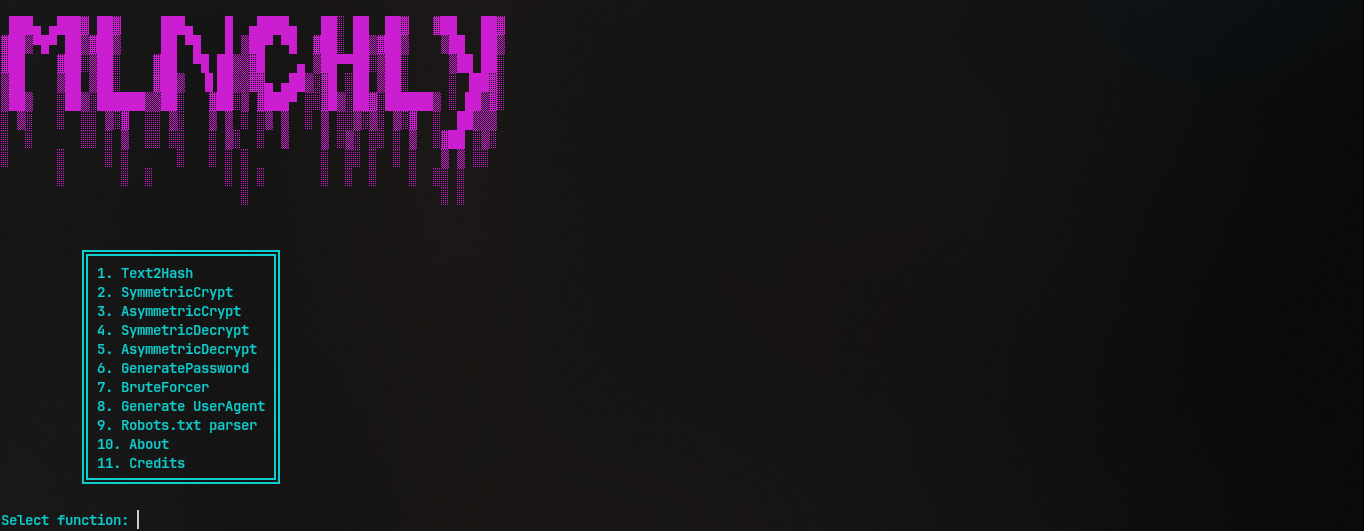
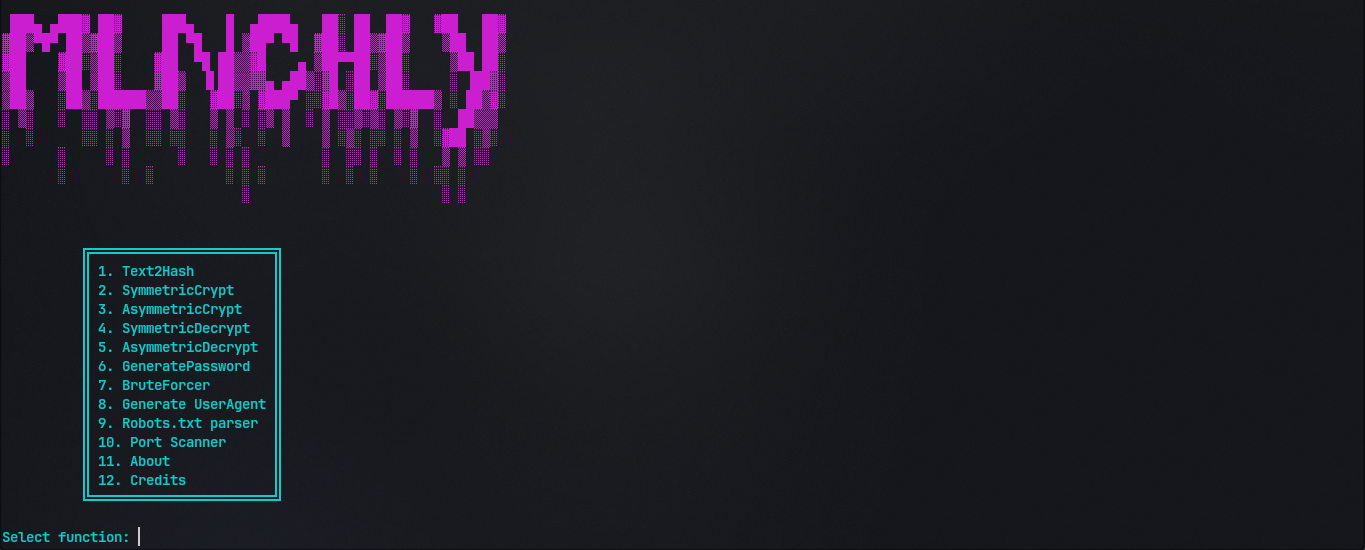
Added Port Scanner, Updated README.md, Updated ScreenShots.

diff --git a/main.py b/main.py
@@ -9,6 +9,7 @@ from modules.generate_pswrd import run_genpswrd
 from modules.bruteforce import run_brtfrce
 from modules.generate_UA import run_genUA
 from modules.robots_parser import run_robots_parser
+from modules.portscanner import run_portscnnr
 
 init(autoreset=True)
 
@@ -25,15 +26,16 @@ def main():
 	  ║ 7. BruteForcer        ║
 	  ║ 8. Generate UserAgent ║
 	  ║ 9. Robots.txt parser  ║
-	  ║ 10. About	          ║
-	  ║ 11. Credits           ║
+	  ║ 10. Port Scanner      ║
+	  ║ 11. About	          ║
+	  ║ 12. Credits           ║
 	  ╚═══════════════════════╝
 		""")
 	while True:
 		try:
 			choice = int(input(Fore.CYAN + Style.BRIGHT + "Select function: "))
-			if choice not in range(1, 10):
-				print(Fore.RED + Style.BRIGHT + "Choose function 1-10!")
+			if choice not in range(1, 13):
+				print(Fore.RED + Style.BRIGHT + "Choose function 1-12!")
 				continue
 			break
 		except ValueError:
@@ -58,11 +60,13 @@ def main():
 	elif choice == 9:
 		run_robots_parser()
 	elif choice == 10:
+		run_portscnnr()
+	elif choice == 11:
 		print(Fore.CYAN + Style.BRIGHT + """
 			Mlnchly is a Python tool for working with hashes and cryptography; 
 			it supports a wide range of algorithms and handles both encryption and decryption.
 		""")
-	elif choice == 11:
+	elif choice == 12:
 		print(Fore.CYAN + Style.BRIGHT + """
 			Sole creator: deferred. 
 			DM: Telegram @ddeferred

diff --git a/modules/portscanner.py b/modules/portscanner.py
@@ -1,0 +1,26 @@
+import socket
+from modules.ui import print_banner
+from colorama import init, Fore, Style
+
+init(autoreset=True)
+
+def run_portscnnr():
+	print_banner()
+	IP = input(Fore.CYAN + Style.BRIGHT + "Write ipv4 Address you want scan: ").strip()
+	while True:
+		raw_ports = input(Fore.CYAN + Style.BRIGHT + "Enter the ports separated by spaces (e.g. 80 443): ")
+		ports = [int(p) for p in raw_ports.replace(',', ' ').split() if p.isdigit()]
+		if ports:
+			break
+		print(Fore.RED + Style.BRIGHT + "Error: enter at least one valid port number.")
+	print(Fore.CYAN + Style.BRIGHT + f"Scanning {IP} for {ports}")
+	for port in ports:
+		s = socket.socket(socket.AF_INET, socket.SOCK_STREAM)
+		s.settimeout(1.0)
+		result = s.connect_ex((IP, port))
+		s.close()
+
+		if result == 0:
+			print(Fore.GREEN + Style.BRIGHT + f"Port {port}: OPEN")
+		else:
+			print(Fore.RED + Style.BRIGHT + f"Port {port}: CLOSED")

diff --git a/README.md b/README.md
@@ -40,6 +40,9 @@ Then select **desire** tool by numbers
 **Decrypting** of **Symmetric and Asymmetric Encryption's**
 **Generating password** of every length, used safe **import secrets**.
 **Brute-Forcing** password with **RockYou.txt** and dump method.
+**Generating UserAgents** with **fake_useragent** library.
+**Parser of robots.txt** with requests for parsing file used for other parsers.
+**Port Scanner** using for scan port and determine whether it is open or not.
 
 ---
 
